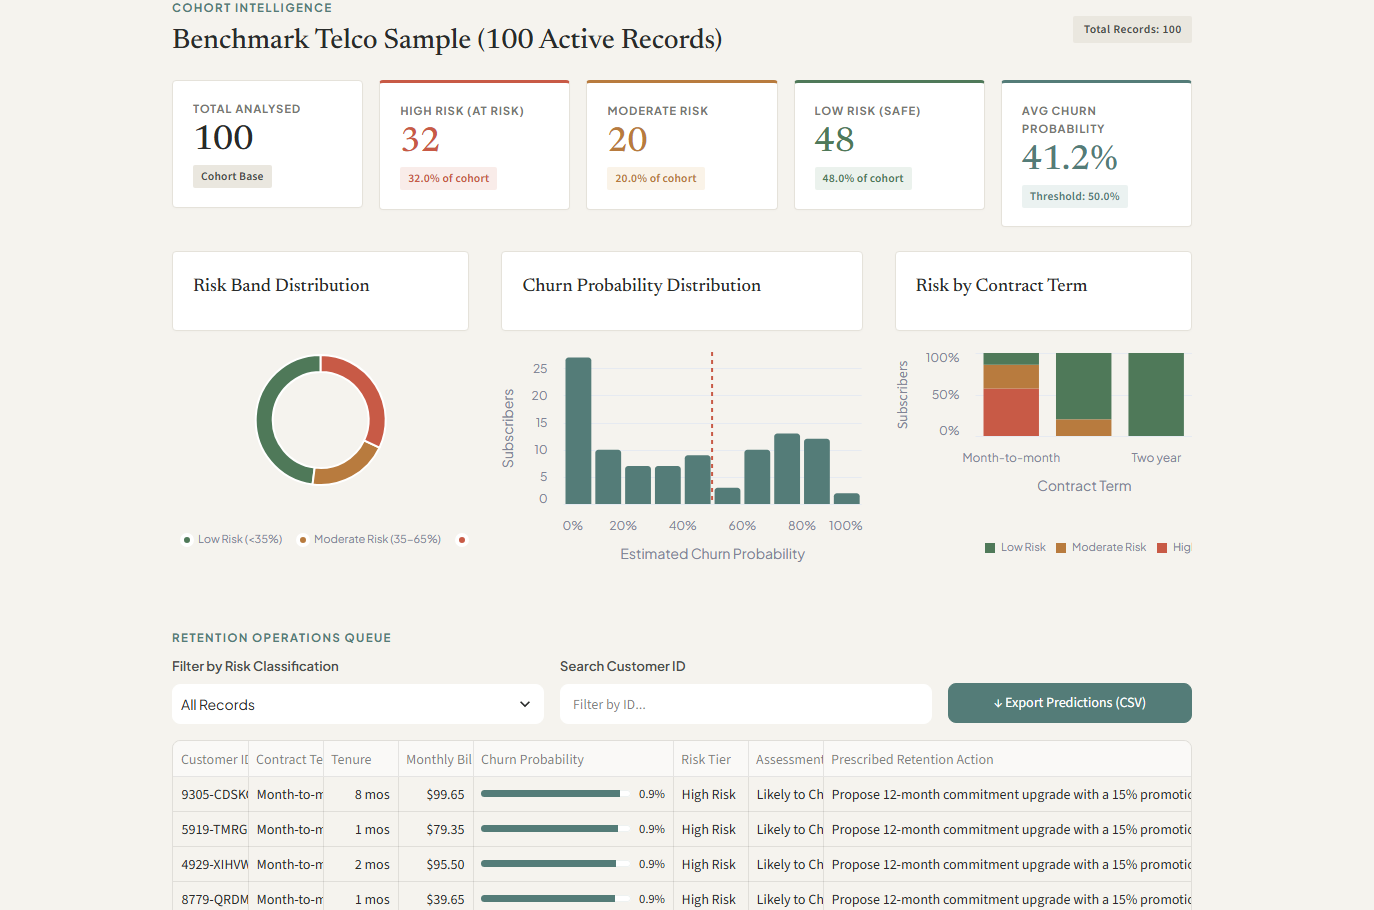
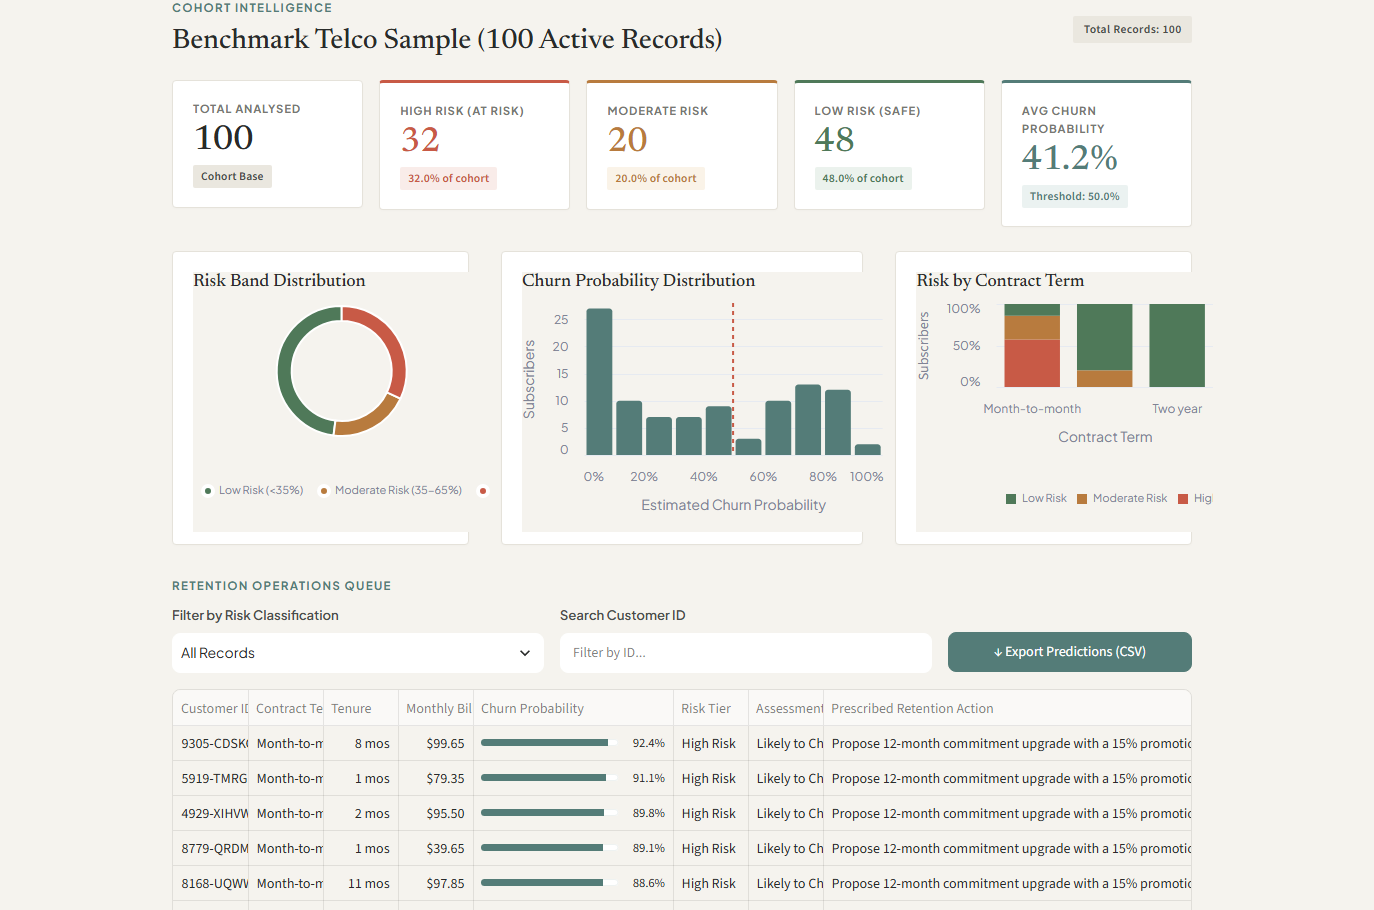
refactor: refactor diagnostic card rendering and optimize chart styling in app.py

diff --git a/app.py b/app.py
@@ -159,6 +159,15 @@ div.block-container {
     color: #4A4D4A;
 }
 
+/* Altair / Vega-Lite Chart Card Styling */
+[data-testid="stVegaLiteChart"], .stVegaLiteChart {
+    background: #FFFFFF !important;
+    border: 1px solid #E5E2DA !important;
+    border-radius: 4px !important;
+    padding: 1.25rem 1.25rem 0.75rem 1.25rem !important;
+    box-shadow: 0 1px 3px rgba(0, 0, 0, 0.02) !important;
+}
+
 /* Executive Metric KPI Cards (Metric Style) */
 .kpi-card {
     background: #FFFFFF;
@@ -771,94 +780,63 @@ with tab_indiv:
         st.markdown(textwrap.dedent(card_html), unsafe_allow_html=True)
 
         # Diagnostic Breakdown (Drivers, Anchors, and Tailored Retention Actions)
+        def render_diagnostic_card(title: str, badge_label: str, badge_color: str, badge_bg: str, items: List[str], bullet_class: str, bullet_char: str, empty_text: str) -> str:
+            if items:
+                rows = "".join([f'<div class="diagnostic-item"><span class="{bullet_class}">{bullet_char}</span><span>{it}</span></div>' for it in items])
+            else:
+                rows = f'<div style="font-size: 0.85rem; color: #777873; padding: 0.5rem 0;">{empty_text}</div>'
+
+            return f"""
+            <div class="surface-card" style="height: 100%;">
+                <div style="display: flex; align-items: center; justify-content: space-between; margin-bottom: 0.75rem; padding-bottom: 0.5rem; border-bottom: 1px solid #F0EEE6;">
+                    <div style="font-family: 'Newsreader', serif; font-size: 1.2rem; font-weight: 500; color: #292B2A;">
+                        {title}
+                    </div>
+                    <span style="font-size: 0.68rem; font-weight: 700; text-transform: uppercase; color: {badge_color}; background: {badge_bg}; padding: 0.2rem 0.5rem; border-radius: 2px;">
+                        {badge_label}
+                    </span>
+                </div>
+                {rows}
+            </div>
+            """
+
         col_diag1, col_diag2, col_diag3 = st.columns(3, gap="medium")
 
         with col_diag1:
-            st.markdown(textwrap.dedent("""
-            <div class="surface-card">
-                <div style="display: flex; align-items: center; justify-content: space-between; margin-bottom: 0.75rem;">
-                    <div style="font-family: 'Newsreader', serif; font-size: 1.2rem; font-weight: 500; color: #292B2A;">
-                        Key Risk Drivers
-                    </div>
-                    <span style="font-size: 0.68rem; font-weight: 700; text-transform: uppercase; color: #C85A46; background: #F9ECE9; padding: 0.2rem 0.5rem; border-radius: 2px;">
-                        Friction
-                    </span>
-                </div>
-            """), unsafe_allow_html=True)
-
-            if res["risk_drivers"]:
-                for driver in res["risk_drivers"]:
-                    st.markdown(textwrap.dedent(f"""
-                    <div class="diagnostic-item">
-                        <span class="bullet-risk">▲</span>
-                        <span>{driver}</span>
-                    </div>
-                    """), unsafe_allow_html=True)
-            else:
-                st.markdown(textwrap.dedent("""
-                <div style="font-size: 0.85rem; color: #777873; padding: 0.5rem 0;">
-                    No major friction drivers identified. Account demonstrates balanced, low-risk operational patterns.
-                </div>
-                """), unsafe_allow_html=True)
-            st.markdown("</div>", unsafe_allow_html=True)
+            st.markdown(render_diagnostic_card(
+                title="Key Risk Drivers",
+                badge_label="Friction",
+                badge_color="#C85A46",
+                badge_bg="#F9ECE9",
+                items=res["risk_drivers"],
+                bullet_class="bullet-risk",
+                bullet_char="▲",
+                empty_text="No major friction drivers identified. Account demonstrates balanced, low-risk operational patterns."
+            ), unsafe_allow_html=True)
 
         with col_diag2:
-            st.markdown(textwrap.dedent("""
-            <div class="surface-card">
-                <div style="display: flex; align-items: center; justify-content: space-between; margin-bottom: 0.75rem;">
-                    <div style="font-family: 'Newsreader', serif; font-size: 1.2rem; font-weight: 500; color: #292B2A;">
-                        Retention Anchors
-                    </div>
-                    <span style="font-size: 0.68rem; font-weight: 700; text-transform: uppercase; color: #4F7959; background: #EBF2ED; padding: 0.2rem 0.5rem; border-radius: 2px;">
-                        Protective
-                    </span>
-                </div>
-            """), unsafe_allow_html=True)
-
-            if res["retention_anchors"]:
-                for anchor in res["retention_anchors"]:
-                    st.markdown(textwrap.dedent(f"""
-                    <div class="diagnostic-item">
-                        <span class="bullet-anchor">●</span>
-                        <span>{anchor}</span>
-                    </div>
-                    """), unsafe_allow_html=True)
-            else:
-                st.markdown(textwrap.dedent("""
-                <div style="font-size: 0.85rem; color: #777873; padding: 0.5rem 0;">
-                    Limited retention anchors found. Account is sensitive to competitive displacement or pricing shifts.
-                </div>
-                """), unsafe_allow_html=True)
-            st.markdown("</div>", unsafe_allow_html=True)
+            st.markdown(render_diagnostic_card(
+                title="Retention Anchors",
+                badge_label="Protective",
+                badge_color="#4F7959",
+                badge_bg="#EBF2ED",
+                items=res["retention_anchors"],
+                bullet_class="bullet-anchor",
+                bullet_char="●",
+                empty_text="Limited retention anchors found. Account is sensitive to competitive displacement or pricing shifts."
+            ), unsafe_allow_html=True)
 
         with col_diag3:
-            st.markdown(textwrap.dedent("""
-            <div class="surface-card">
-                <div style="display: flex; align-items: center; justify-content: space-between; margin-bottom: 0.75rem;">
-                    <div style="font-family: 'Newsreader', serif; font-size: 1.2rem; font-weight: 500; color: #292B2A;">
-                        Recommended Action Plan
-                    </div>
-                    <span style="font-size: 0.68rem; font-weight: 700; text-transform: uppercase; color: #547C78; background: #EBF2F1; padding: 0.2rem 0.5rem; border-radius: 2px;">
-                        Prescriptive
-                    </span>
-                </div>
-            """), unsafe_allow_html=True)
-
-            if res.get("retention_actions"):
-                for action in res["retention_actions"]:
-                    st.markdown(textwrap.dedent(f"""
-                    <div class="diagnostic-item">
-                        <span class="bullet-action">→</span>
-                        <span>{action}</span>
-                    </div>
-                    """), unsafe_allow_html=True)
-            else:
-                st.markdown(textwrap.dedent("""
-                <div style="font-size: 0.85rem; color: #777873; padding: 0.5rem 0;">
-                    Account status stable. Review periodic service satisfaction surveys.
-                </div>
-                """), unsafe_allow_html=True)
-            st.markdown("</div>", unsafe_allow_html=True)
+            st.markdown(render_diagnostic_card(
+                title="Recommended Action Plan",
+                badge_label="Prescriptive",
+                badge_color="#547C78",
+                badge_bg="#EBF2F1",
+                items=res.get("retention_actions", []),
+                bullet_class="bullet-action",
+                bullet_char="→",
+                empty_text="Account status stable. Review periodic service satisfaction surveys."
+            ), unsafe_allow_html=True)
 
 
 # =============================================================================
@@ -1059,20 +1037,13 @@ with tab_batch:
 
         # Chart 1: Donut Chart for Risk Bands
         with chart_col1:
-            st.markdown(textwrap.dedent("""
-            <div class="surface-card" style="padding: 1.25rem;">
-                <div style="font-family: 'Newsreader', serif; font-size: 1.15rem; font-weight: 500; color: #292B2A; margin-bottom: 0.5rem;">
-                    Risk Band Distribution
-                </div>
-            """), unsafe_allow_html=True)
-
             risk_summary_df = pd.DataFrame([
                 {"Category": "Low Risk (<35%)", "Count": analytics["low_risk_count"], "Order": 1},
                 {"Category": "Moderate Risk (35-65%)", "Count": analytics["moderate_risk_count"], "Order": 2},
                 {"Category": "High Risk (>65%)", "Count": analytics["high_risk_count"], "Order": 3},
             ])
 
-            donut_chart = alt.Chart(risk_summary_df).mark_arc(innerRadius=48, stroke="#FFFFFF", strokeWidth=2).encode(
+            donut_chart = alt.Chart(risk_summary_df).mark_arc(innerRadius=50, stroke="#FFFFFF", strokeWidth=2).encode(
                 theta=alt.Theta(field="Count", type="quantitative"),
                 color=alt.Color(
                     field="Category",
@@ -1081,26 +1052,21 @@ with tab_batch:
                         domain=["Low Risk (<35%)", "Moderate Risk (35-65%)", "High Risk (>65%)"],
                         range=["#4F7959", "#B87B3E", "#C85A46"]
                     ),
-                    legend=alt.Legend(title=None, orient="bottom", labelFont="Plus Jakarta Sans", labelFontSize=11)
+                    legend=alt.Legend(title=None, orient="bottom", labelFont="Plus Jakarta Sans", labelFontSize=11, labelLimit=140)
                 ),
                 tooltip=[
                     alt.Tooltip("Category:N", title="Risk Band"),
                     alt.Tooltip("Count:Q", title="Subscribers"),
                 ]
-            ).properties(height=230)
+            ).properties(
+                title=alt.TitleParams("Risk Band Distribution", font="Newsreader", fontSize=18, fontWeight=500, color="#292B2A", anchor="start", offset=12),
+                height=260
+            )
 
             st.altair_chart(donut_chart, use_container_width=True)
-            st.markdown("</div>", unsafe_allow_html=True)
 
         # Chart 2: Probability Distribution Histogram
         with chart_col2:
-            st.markdown(textwrap.dedent("""
-            <div class="surface-card" style="padding: 1.25rem;">
-                <div style="font-family: 'Newsreader', serif; font-size: 1.15rem; font-weight: 500; color: #292B2A; margin-bottom: 0.5rem;">
-                    Churn Probability Distribution
-                </div>
-            """), unsafe_allow_html=True)
-
             hist_chart = alt.Chart(batch_df).mark_bar(color="#547C78", cornerRadiusTopLeft=3, cornerRadiusTopRight=3).encode(
                 x=alt.X(
                     "churn_probability:Q",
@@ -1116,7 +1082,10 @@ with tab_batch:
                 tooltip=[
                     alt.Tooltip("count():Q", title="Count"),
                 ]
-            ).properties(height=230)
+            ).properties(
+                title=alt.TitleParams("Churn Probability Distribution", font="Newsreader", fontSize=18, fontWeight=500, color="#292B2A", anchor="start", offset=12),
+                height=260
+            )
 
             # Threshold rule line at 0.50
             threshold_df = pd.DataFrame([{"threshold": 0.50}])
@@ -1125,17 +1094,9 @@ with tab_batch:
             )
 
             st.altair_chart(hist_chart + rule, use_container_width=True)
-            st.markdown("</div>", unsafe_allow_html=True)
 
         # Chart 3: Churn Risk by Contract Type
         with chart_col3:
-            st.markdown(textwrap.dedent("""
-            <div class="surface-card" style="padding: 1.25rem;">
-                <div style="font-family: 'Newsreader', serif; font-size: 1.15rem; font-weight: 500; color: #292B2A; margin-bottom: 0.5rem;">
-                    Risk by Contract Term
-                </div>
-            """), unsafe_allow_html=True)
-
             contract_chart = alt.Chart(batch_df).mark_bar().encode(
                 x=alt.X("Contract:N", title="Contract Term", axis=alt.Axis(labelAngle=0, labelFont="Plus Jakarta Sans", titleFont="Plus Jakarta Sans")),
                 y=alt.Y("count():Q", title="Subscribers", stack="normalize", axis=alt.Axis(format="%", labelFont="Plus Jakarta Sans")),
@@ -1148,10 +1109,12 @@ with tab_batch:
                     legend=alt.Legend(title=None, orient="bottom", labelFont="Plus Jakarta Sans", labelFontSize=11)
                 ),
                 tooltip=["Contract:N", "risk_band:N", "count():Q"]
-            ).properties(height=230)
+            ).properties(
+                title=alt.TitleParams("Risk by Contract Term", font="Newsreader", fontSize=18, fontWeight=500, color="#292B2A", anchor="start", offset=12),
+                height=260
+            )
 
             st.altair_chart(contract_chart, use_container_width=True)
-            st.markdown("</div>", unsafe_allow_html=True)
 
         st.markdown("<div style='margin-top: 1rem;'></div>", unsafe_allow_html=True)
 
@@ -1201,7 +1164,7 @@ with tab_batch:
         # Display Interactive Data Table
         display_columns = [
             "customerID", "Contract", "tenure", "MonthlyCharges",
-            "churn_probability", "risk_band", "outcome_label", "recommended_action"
+            "churn_percentage", "risk_band", "outcome_label", "recommended_action"
         ]
 
         st.dataframe(
@@ -1213,11 +1176,11 @@ with tab_batch:
                 "Contract": st.column_config.TextColumn("Contract Term", width="small"),
                 "tenure": st.column_config.NumberColumn("Tenure", format="%d mos", width="small"),
                 "MonthlyCharges": st.column_config.NumberColumn("Monthly Bill", format="$%.2f", width="small"),
-                "churn_probability": st.column_config.ProgressColumn(
+                "churn_percentage": st.column_config.ProgressColumn(
                     "Churn Probability",
                     format="%.1f%%",
                     min_value=0.0,
-                    max_value=1.0,
+                    max_value=100.0,
                     width="medium"
                 ),
                 "risk_band": st.column_config.TextColumn("Risk Tier", width="small"),
